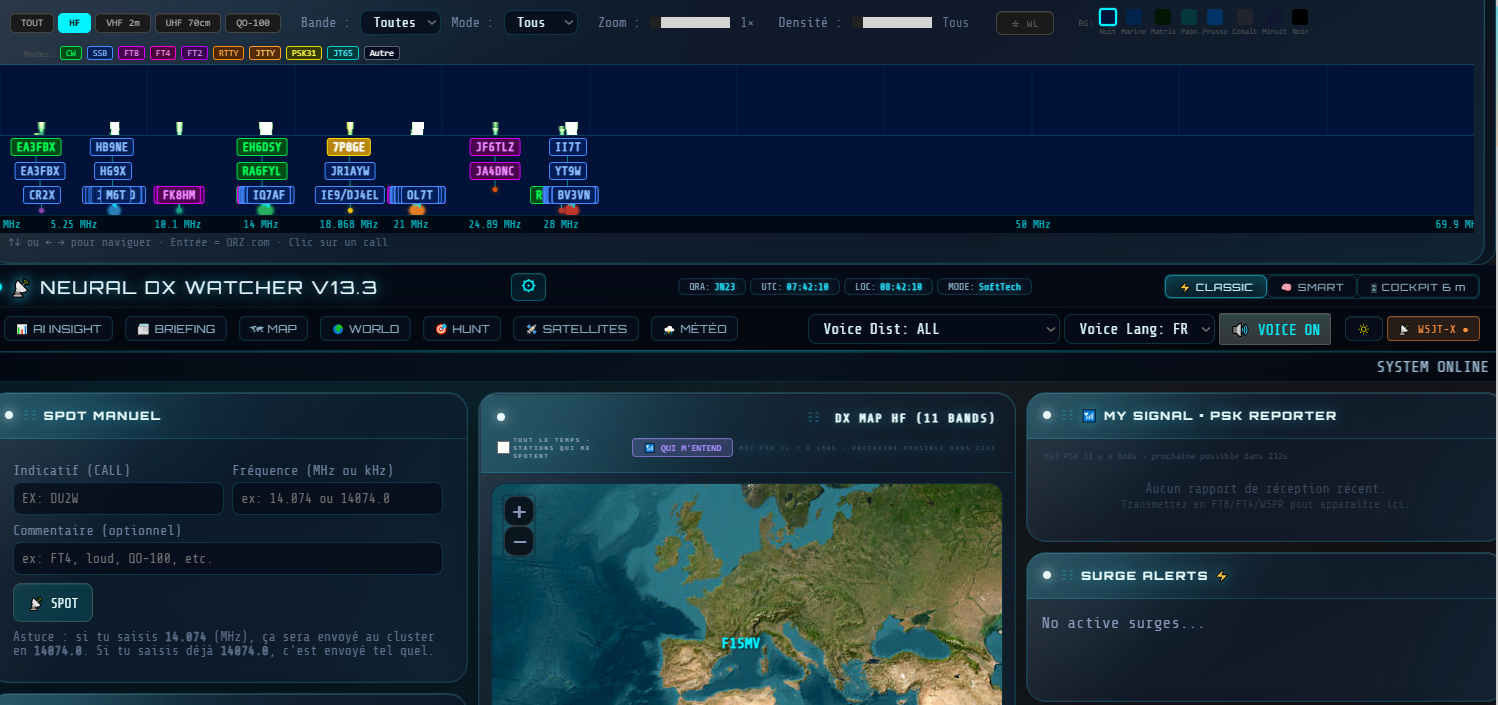
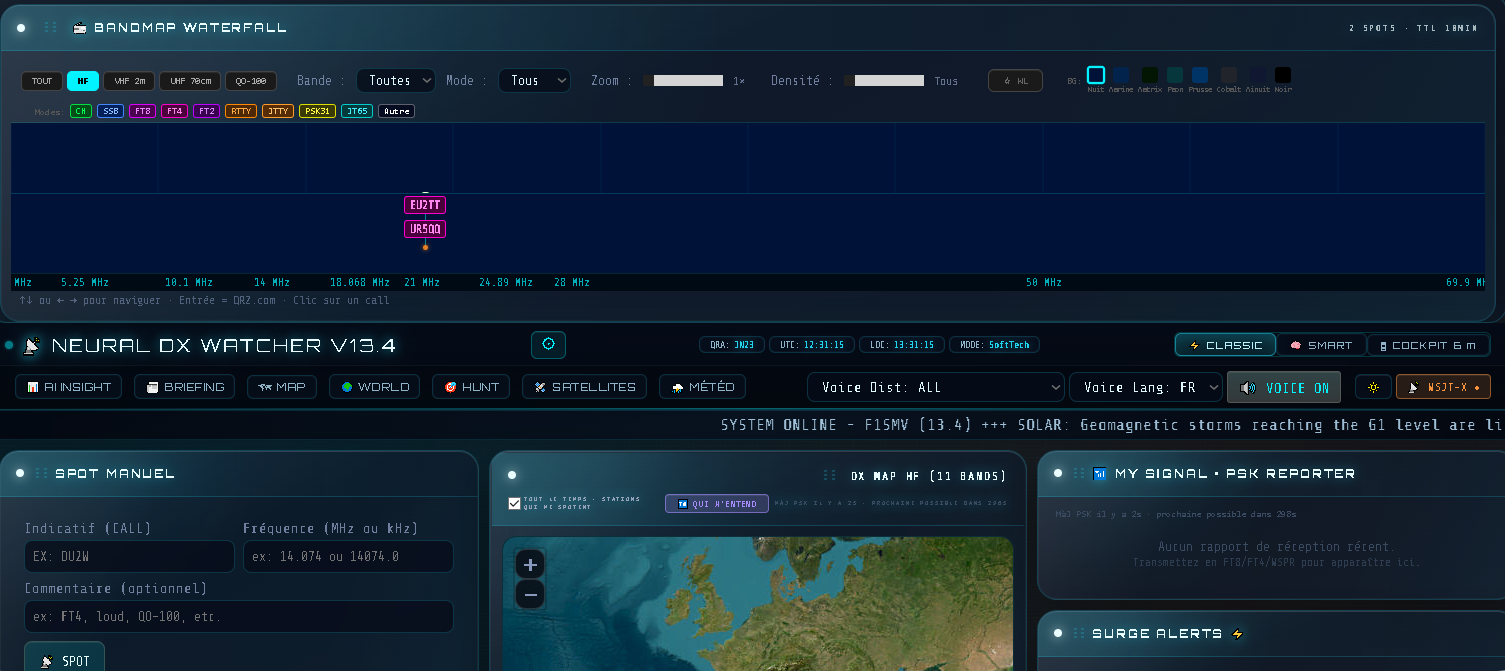
Version 13.4 : documentation FR/EN, capture d'écran et numéro de version
Claude-Session: https://claude.ai/code/session_01KWHWebzyN8VfYHLsyt2qtA

diff --git a/webapp.py b/webapp.py
@@ -222,7 +222,7 @@ tn_lock = threading.Lock()
 tn_current = None  # socket.socket when connected
 # --- FIN CLUSTER TX ---
 # --- CONFIGURATION GENERALE ---
-APP_VERSION = '13.3'
+APP_VERSION = '13.4'
 MY_CALL = "F1SMV"
 WEB_PORT = 8000
 KEEP_ALIVE = 60
@@ -6380,7 +6380,7 @@ def api_adaptive_calibration():
 
 @app.route("/api/insight/trend.json")
 def api_insight_trend():
-    """v13.3 — Tendance HF par bande : dérive « 14 derniers jours » vs « 60 jours précédents ».
+    """v13.4 — Tendance HF par bande : dérive « 14 derniers jours » vs « 60 jours précédents ».
     Statuts : hausse / baisse / stable / insuffisant.  curl http://<pi>:8000/api/insight/trend.json"""
     import predictor as _pmod
     try:
@@ -8169,7 +8169,7 @@ def api_satellites_list():
         })
     return jsonify({'satellites': result})
 
-# ── v13.3 — Journal des ajouts / retraits de satellites (bandeau page satellites) ──
+# ── v13.4 — Journal des ajouts / retraits de satellites (bandeau page satellites) ──
 SAT_SNAPSHOT_FILE = Path("data/satellites_snapshot.json")  # {norad: nom} dernier ensemble connu
 SAT_CHANGES_FILE  = Path("data/satellites_changes.json")   # journal (20 derniers) avec drapeau ack
 

diff --git a/README.md b/README.md
@@ -1,4 +1,4 @@
-# 🛰 Neural DX Watcher 13.3
+# 🛰 Neural DX Watcher 13.4
 
 > Plateforme de monitoring DX en temps réel pour radioamateurs — F1SMV / JN23
 > Raspberry Pi 5 · Flask · SQLite · Leaflet.js · WSJT-X · Adaptive AI Insight Engine
@@ -16,6 +16,7 @@
 - [Présentation](#-présentation)
 - [Stack technique](#-stack-technique)
 - [Historique des versions](#-historique-des-versions)
+  - [v13.4 — Pavé radioamateur et flux RSGB](#v134--pavé-radioamateur-satellites-et-flux-rsgb)
   - [v13.3 — Satellites lisibles, AI Insight pédagogique](#v133--satellites-lisibles-ai-insight-pédagogique)
   - [v13.2 — Pavés expérimentaux AI Insight](#v132--pavés-expérimentaux-ai-insight)
   - [v13.1 — Consolidation & préparation de publication](#v131--consolidation--préparation-de-publication)
@@ -65,7 +66,49 @@ Depuis la v12.5, l'application embarque un **moteur d'intelligence artificielle 
 
 ---
 
-### v13.3 — Satellites lisibles, AI Insight pédagogique ← ACTUEL
+### v13.4 — Pavé radioamateur satellites et flux RSGB ← ACTUEL
+
+**Période :** novembre 2026  
+**Statut :** à valider sur Raspberry Pi après déploiement.
+
+#### Changements par rapport à v13.3
+
+**Actualités DX**
+
+- **Flux RSGB :** DX-World renvoie HTTP 403 depuis le Pi. Remplacé par le flux RSGB GB2RS DX News. Sources du briefing : ARRL, NG3K, RSGB.
+
+**Satellites — pavé « Radioamateur »**
+
+- **Registre curé :** `data/ham_satellites.json` recense 39 satellites sur 7 sources, avec statut (à venir, en déploiement, actif, statut non confirmé, hors service), date de lancement publiée, fréquences et indicateur « récemment actif ».
+- **Confirmation croisée :** un satellite n'est confirmé qu'avec au moins 2 sources distinctes. Une source citée deux fois ne compte qu'une fois.
+- **Statistiques :** total, nombre de satellites confirmés et nombre d'actifs récemment.
+- **Sans réseau :** le pavé se lit dans le registre local ; la page ne dépend d'aucune source externe.
+
+#### Nouvelles API (v13.4)
+
+| Endpoint | Description |
+|----------|-------------|
+| `GET /api/satellites/ham_radar` | Pavé radioamateur : satellites groupés par statut, avec sources et confirmation |
+
+#### Vérifications après déploiement
+
+- `python3 -m unittest test_ham_radar` affiche 17 tests OK.
+- `curl -s http://localhost:8000/api/satellites/ham_radar` renvoie du JSON avec les groupes `a_venir`, `en_deploiement`, `actif`, `statut_inconnu` et `hors_service`.
+
+#### Limites connues
+
+- Le registre est mis à jour à la main ; son champ `updated` indique sa date.
+- La page se rafraîchit toutes les 30 minutes.
+- Croissance mémoire nocturne de la webapp (≈ +17 Mo par nuit) : à traiter avant la v14 (voir la clôture Phase 0).
+- DX-World reste bloqué (403) : aucun contournement n'est prévu.
+
+#### Fichiers modifiés
+
+`ham_radar.py` et `test_ham_radar.py` (nouveaux), `data/ham_satellites.json` (nouveau, versionné grâce à une exception dans `.gitignore`), `webapp.py`, `templates/satellites.html`, `.gitignore`, `start.sh`, `version.json`, `README.md`, `README_EN.md`.
+
+---
+
+### v13.3 — Satellites lisibles, AI Insight pédagogique
 
 **Période :** octobre 2026  
 **Statut :** version en cours de validation sur Raspberry Pi. Les vérifications de la section dédiée restent à faire après déploiement.
@@ -514,6 +557,7 @@ cd Neural-DX-Watcher
 | `GET /api/satellites/covisibility/<norad>?locator=IO91` | Fenêtres 48 h de co-visibilité QTH ↔ locator |
 | `GET /api/satellites/changes` | Ajouts / retraits de satellites non acquittés |
 | `POST /api/satellites/changes/ack` | Acquitte les changements affichés |
+| `GET /api/satellites/ham_radar` | Pavé radioamateur (v13.4) : satellites groupés par statut, sources et confirmation |
 
 ### Adaptive Insight Engine (introduit en v13.0)
 
@@ -566,7 +610,7 @@ cd Neural-DX-Watcher
 
 ---
 
-*Neural DX Watcher v13.3 — F1SMV — JN23 — La Seyne-sur-Mer, France*
+*Neural DX Watcher v13.4 — F1SMV — JN23 — La Seyne-sur-Mer, France*
 * vous pouvez me contacter via X 
 * design F1SMV programmé par Claude Ai
 *Historique initial rédigé pour les versions antérieures ; mise à jour documentaire : octobre 2026.*

diff --git a/README_EN.md b/README_EN.md
@@ -1,4 +1,4 @@
-# 🛰 Neural DX Watcher 13.3
+# 🛰 Neural DX Watcher 13.4
 
 > Real-time DX monitoring platform for amateur radio operators — F1SMV / JN23  
 > Raspberry Pi · Flask · SQLite · Leaflet.js · WSJT-X · Adaptive AI Insight Engine
@@ -16,6 +16,7 @@
 - [Overview](#-overview)
 - [Technology stack](#-technology-stack)
 - [Version history](#-version-history)
+  - [v13.4 — Radio satellite panel and RSGB feed](#v134--radio-satellite-panel-and-rsgb-feed)
   - [v13.3 — Readable satellites, pedagogical AI Insight](#v133--readable-satellites-pedagogical-ai-insight)
   - [v13.2 — Experimental AI Insight panels](#v132--experimental-ai-insight-panels)
   - [v13.1 — Consolidation and release preparation](#v131--consolidation-and-release-preparation)
@@ -65,7 +66,49 @@ Since v12.5, the application has included an experimental **adaptive AI Insight 
 
 ## 📜 Version history
 
-### v13.3 — Readable satellites, pedagogical AI Insight ← CURRENT
+### v13.4 — Radio satellite panel and RSGB feed ← CURRENT
+
+**Period:** November 2026  
+**Status:** to be validated on Raspberry Pi after deployment.
+
+#### Changes since v13.3
+
+**DX news**
+
+- **RSGB feed:** DX-World returns HTTP 403 from the Pi. Replaced by the RSGB GB2RS DX News feed. Briefing sources: ARRL, NG3K, RSGB.
+
+**Satellites — "Radio amateur" panel**
+
+- **Curated registry:** `data/ham_satellites.json` lists 39 satellites across 7 sources, with status (upcoming, deploying, active, unconfirmed status, out of service), published launch date, frequencies and a "recently active" flag.
+- **Cross-source confirmation:** a satellite is confirmed only with at least 2 distinct sources. A source cited twice counts once.
+- **Statistics:** total, confirmed and recently active counts.
+- **No network calls:** the panel reads the local registry; the page does not depend on any external source.
+
+#### New APIs (v13.4)
+
+| Endpoint | Description |
+|----------|-------------|
+| `GET /api/satellites/ham_radar` | Radio amateur panel: satellites grouped by status, with sources and confirmation |
+
+#### Post-deployment checks
+
+- `python3 -m unittest test_ham_radar` reports 17 tests OK.
+- `curl -s http://localhost:8000/api/satellites/ham_radar` returns JSON with the groups `a_venir`, `en_deploiement`, `actif`, `statut_inconnu` and `hors_service`.
+
+#### Known limitations
+
+- The registry is maintained by hand; its `updated` field gives its date.
+- The page refreshes every 30 minutes.
+- Nightly memory growth of the webapp (≈ +17 MB per night): to be handled before v14 (see the Phase 0 closure).
+- DX-World remains blocked (403): no workaround is planned.
+
+#### Modified files
+
+`ham_radar.py` and `test_ham_radar.py` (new), `data/ham_satellites.json` (new, tracked thanks to an exception in `.gitignore`), `webapp.py`, `templates/satellites.html`, `.gitignore`, `start.sh`, `version.json`, `README.md`, `README_EN.md`.
+
+---
+
+### v13.3 — Readable satellites, pedagogical AI Insight
 
 **Period:** October 2026  
 **Status:** version under validation on Raspberry Pi. The checks listed in the dedicated section must be run after deployment.
@@ -496,6 +539,7 @@ cd Neural-DX-Watcher
 | `GET /api/satellites/covisibility/<norad>?locator=IO91` | 48-hour co-visibility windows, QTH ↔ locator |
 | `GET /api/satellites/changes` | Unacknowledged satellite additions / removals |
 | `POST /api/satellites/changes/ack` | Acknowledges displayed changes |
+| `GET /api/satellites/ham_radar` | Radio amateur panel (v13.4): satellites grouped by status, with sources and confirmation |
 
 ### Adaptive Insight Engine (introduced in v13.0)
 
@@ -550,5 +594,5 @@ cd Neural-DX-Watcher
 
 ---
 
-*Neural DX Watcher v13.3 — F1SMV — JN23 — La Seyne-sur-Mer, France*  
+*Neural DX Watcher v13.4 — F1SMV — JN23 — La Seyne-sur-Mer, France*  
 *Historical release notes retained from the earlier French README; documentation updated October 2026.*
